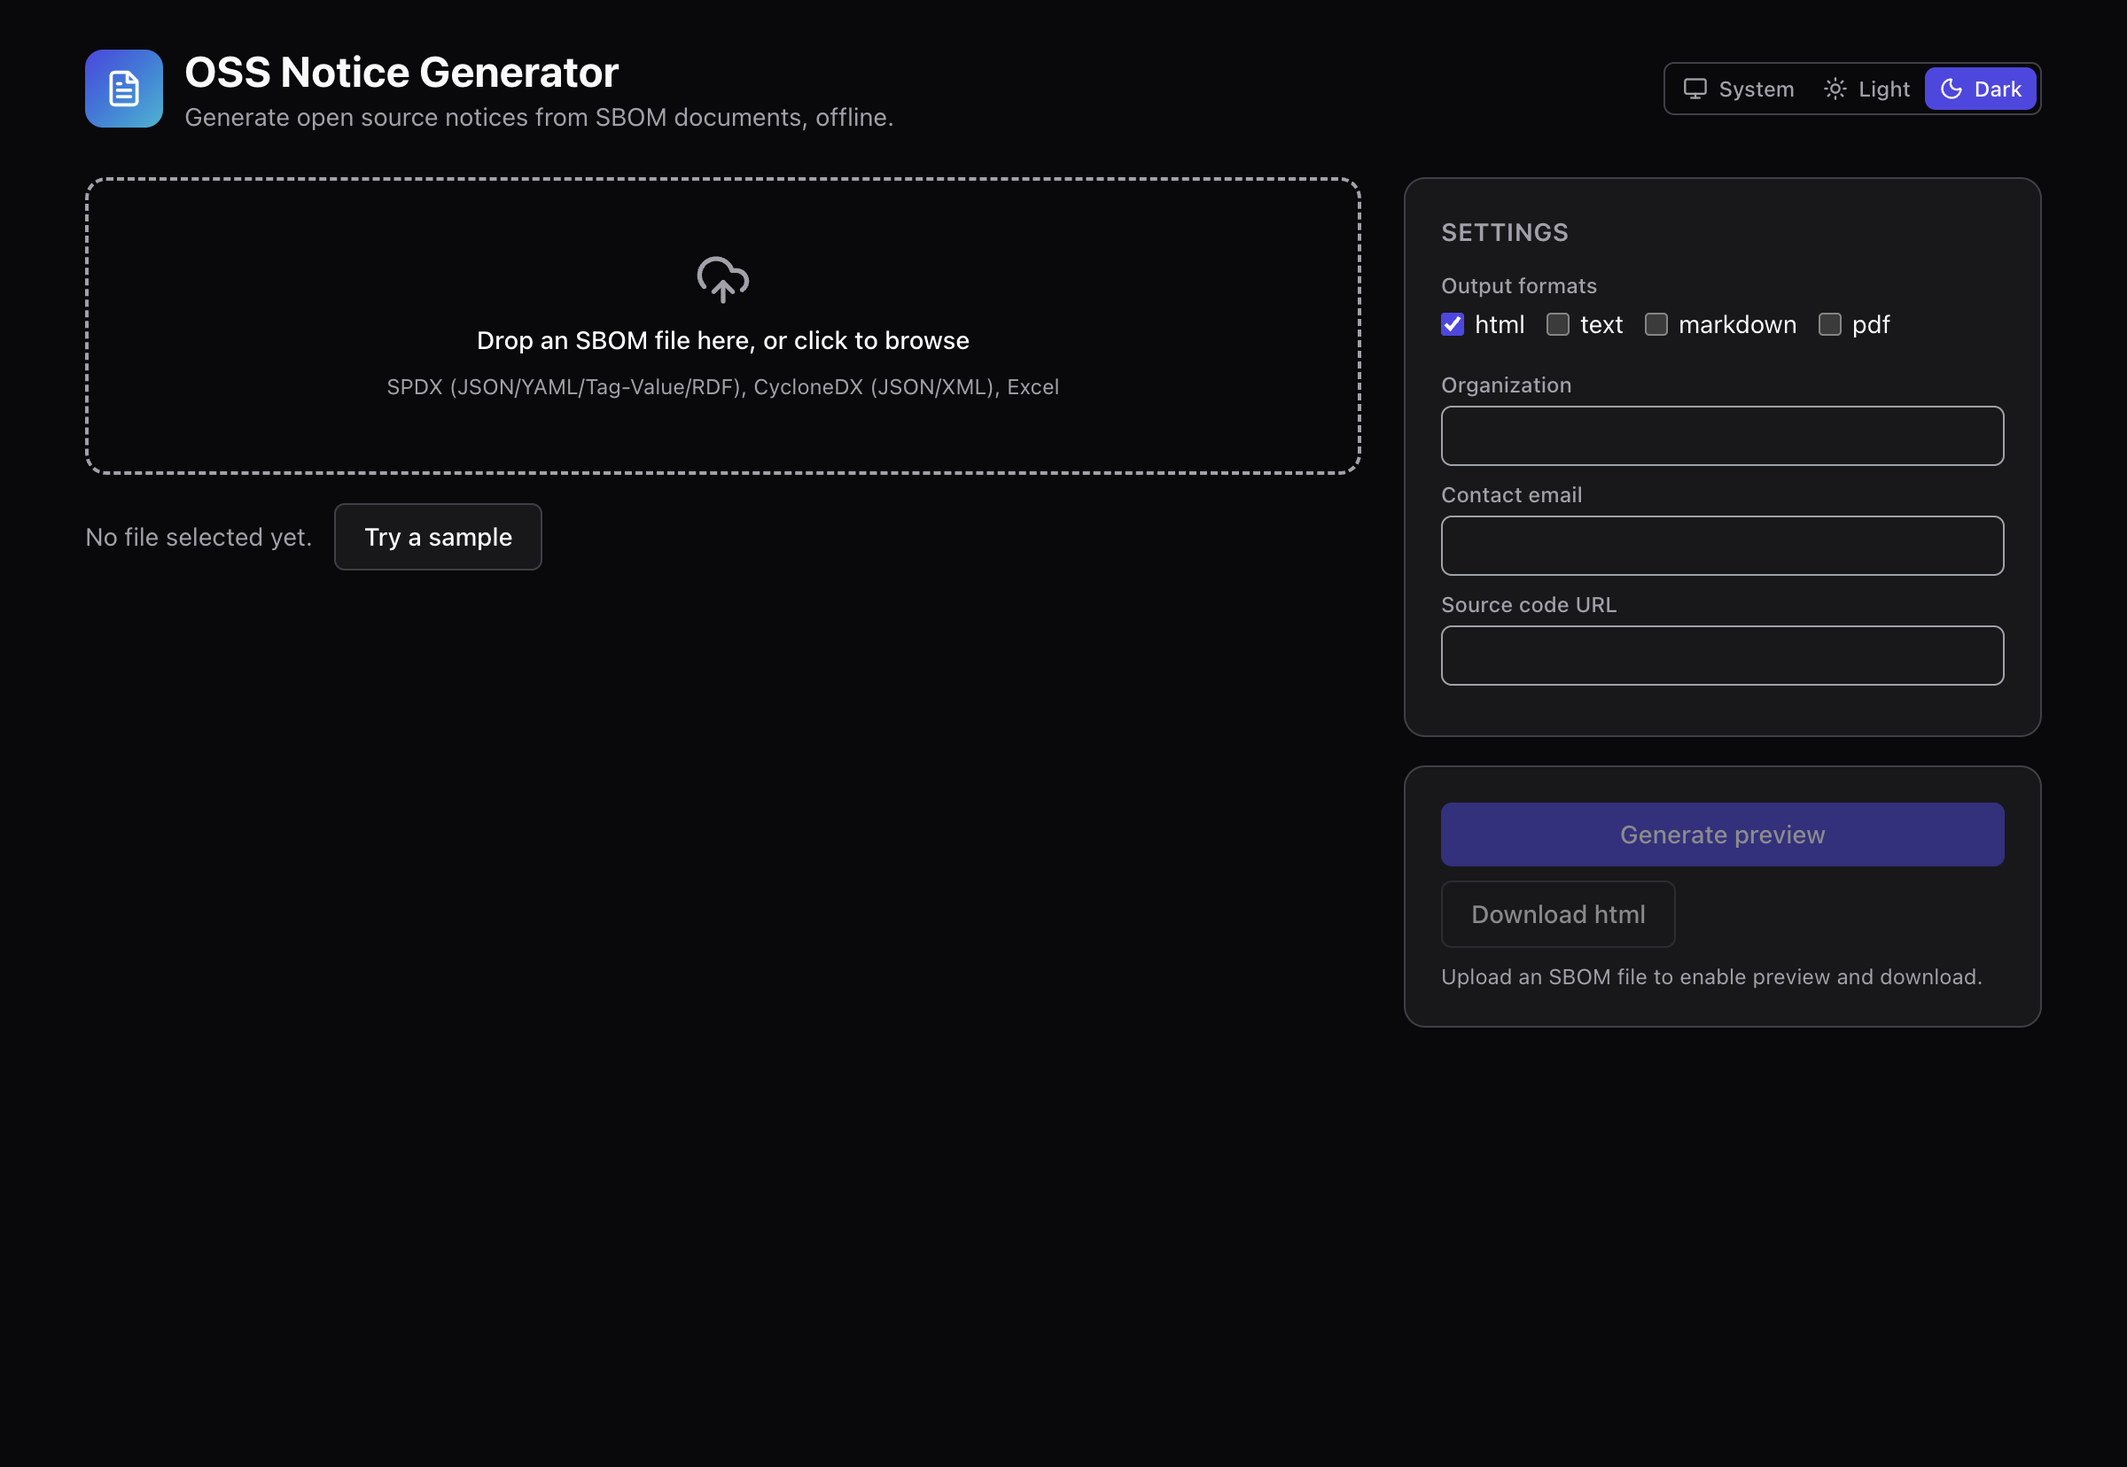
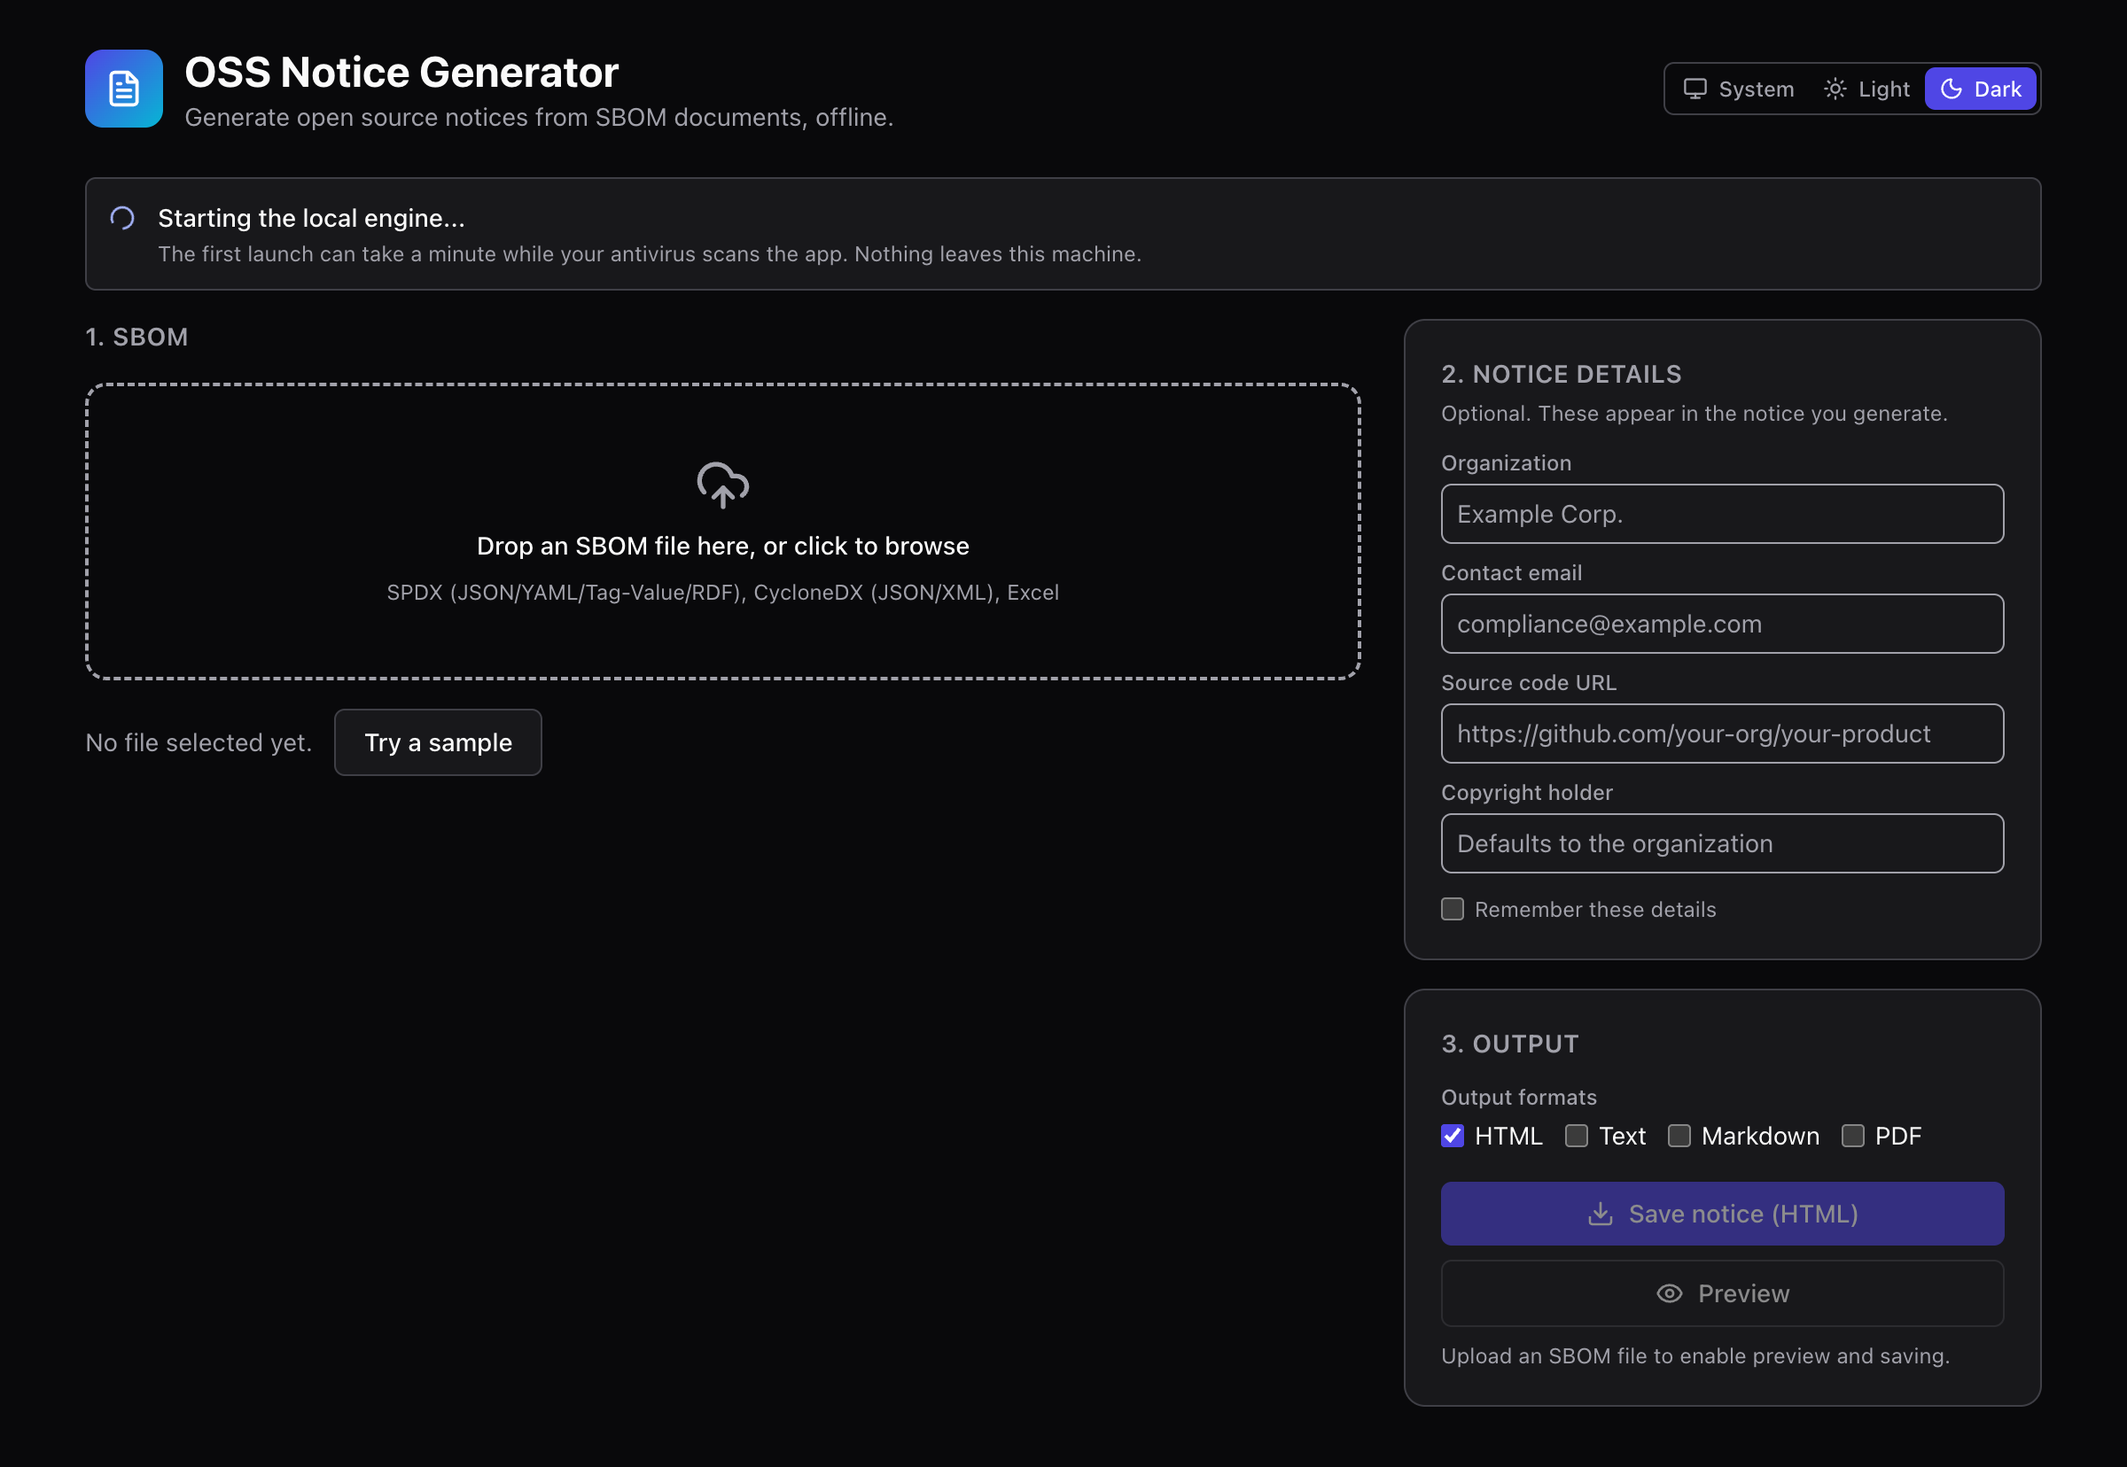
docs: cover macOS in the user guide, and describe the screen as it now works
The guide was titled for Windows and only described Windows, though macOS has been
a published download for some time. It now has an install section per system, and
the walkthrough follows the numbered steps the screen presents, including the
starting state, the theme control, the license breakdown and Show in folder.

The README splits its badge row in two, states which systems are published, and
gains an accessibility section. It claimed nothing about Linux either way; the
build configuration produces an AppImage but no release ships one, so the docs now
say that rather than leaving a reader to guess.

Screenshots are regenerated for the new layout.

diff --git a/docs/USER_GUIDE.md b/docs/USER_GUIDE.md
@@ -1,99 +1,129 @@
-# onot User Guide (Windows)
+# onot User Guide
 
 This guide walks you through everything from downloading onot to saving a notice,
-with screenshots. You don't need to install any developer tools — just one installer.
+with screenshots. You don't need to install any developer tools, just one installer.
 
-Everything runs on your own PC. Your SBOM file is never sent to any server, and the
-app works without an internet connection.
+Everything runs on your own machine. Your SBOM file is never sent to any server, and
+the app works without an internet connection.
 
-## 1. Download the installer
+## 1. Download
 
-Go to the [Releases page](https://github.com/sktelecom/onot/releases). From the
-latest version at the top, download `onot-Setup-x.y.z.exe` (`x.y.z` is the version
-number).
+Go to the [Releases page](https://github.com/sktelecom/onot/releases) and take the
+file for your system from the latest version at the top.
+
+| System | File |
+|--|--|
+| Windows 10 or 11, 64-bit | `onot-Setup-x.y.z.exe` |
+| macOS 12 or later | `onot-x.y.z.dmg` |
+
+Linux is not published as a download. See the README if you want to build an AppImage
+from source.
 
 ## 2. Install
 
-Double-click the downloaded `onot-Setup-x.y.z.exe` to run it.
+The installers are not code-signed, so each system asks you to confirm the first
+launch. This is the only extra step; there is nothing else to set up.
 
-Because the installer is not code-signed, Windows SmartScreen may show a
-"Windows protected your PC" or "unknown publisher" warning on first run. Click
-**More info** in the dialog, then the **Run anyway** button that appears, and the
-installation continues. When it finishes, an onot icon is added to the Start menu
-and desktop.
+### Windows
+
+Double-click `onot-Setup-x.y.z.exe`. SmartScreen may show "Windows protected your PC"
+or an "unknown publisher" warning. Click **More info**, then the **Run anyway** button
+that appears, and the installation continues. When it finishes, an onot icon is added
+to the Start menu and the desktop.
+
+### macOS
+
+Open the `.dmg` and drag onot to Applications. On the first launch, right-click (or
+Control-click) the app and choose **Open**, then confirm in the dialog. Double-clicking
+instead of using **Open** gives a Gatekeeper warning with no way past it. You only need
+to do this once.
 
 ## 3. Launch the app: first screen
 
-When you start onot, the screen below appears. The dashed area on the left is where
-you drop your SBOM file; the right side holds the output settings. The app is in
-English.
+When you start onot, the screen below appears. The screen is laid out in the three
+steps you work through: the SBOM on the left, and the notice details and output
+settings on the right. The app is in English.
 
 ![onot first screen](images/01-home.png)
 
-## 4. Upload an SBOM file
+On the first launch the app may spend up to a minute showing "Starting the local
+engine". That is your antivirus scanning a freshly downloaded application. Later
+launches are immediate.
+
+The control in the top right switches between the light and dark themes. It follows
+your system setting until you choose otherwise.
+
+## 4. Add an SBOM file (step 1)
 
 Drag an SBOM file onto the dashed area, or click the area to pick a file from the
-chooser. SPDX (JSON/YAML/Tag-Value/RDF), CycloneDX (JSON/XML), and Excel formats are
-accepted. The format is detected automatically, so you don't need to select it.
+chooser. You can also use **File > Open SBOM** in the menu. SPDX
+(JSON/YAML/Tag-Value/RDF), CycloneDX (JSON/XML), and Excel formats are accepted. The
+format is detected automatically, so you don't need to select it.
 
-Don't have an SBOM file yet? Click **Try a sample** below the drop area to load a
-small example that ships with the app, so you can see the whole flow right away.
+Don't have an SBOM file yet? Click **Try a sample** below the drop area to load a small
+example that ships with the app, so you can see the whole flow right away.
 
-Once uploaded, the document name and component count are shown. In the screenshot
-below, `example.spdx.json` was uploaded and 2 components of `EXAMPLE-PRODUCT` were
-recognized.
+Once the file is read, onot summarises it: the product name, how many components and
+licenses it found, and how many components fall under each license. If anything needs
+your attention, a warning count appears; open it to see what each warning means for the
+notice you are about to produce.
 
-![After uploading an SBOM file](images/02-uploaded.png)
+![After adding an SBOM file](images/02-uploaded.png)
 
-## 5. Choose output formats and details
+## 5. Fill in the notice details (step 2)
 
-On the right, choose the output formats you want (you can select several of html,
-text, markdown, pdf). Optionally enter your organization name, contact email, and
-source code URL. This information is included in the generated notice.
+These fields are optional, and they appear in the generated notice: your organization,
+a contact address for compliance questions, where the source code can be obtained, and
+the copyright holder if it differs from the organization.
 
-After you pick formats, a download button appears for each one below. In the
-screenshot below, html and markdown were both selected, so two download buttons
-appeared.
+Tick **Remember these details** to keep them for next time. They are stored only on this
+machine, and only when you tick the box.
+
+## 6. Choose formats and save (step 3)
+
+Choose the output formats you want. You can select several of HTML, Text, Markdown and
+PDF.
 
 ![Choosing output formats](images/03-settings.png)
 
-## 6. Preview and download
-
-Click **Generate preview** to view the notice right inside the app. The component
-list, licenses, and copyright information are laid out in a table, and the full
-license texts are included as well.
+**Preview** shows the notice inside the app before you commit to a file. The component
+list, licenses and copyright information are laid out in a table, and the full license
+texts follow. Use **Expand** to give the preview the height of the window.
 
 ![Notice preview](images/04-preview.png)
 
-Once you've reviewed it, click the button for the format you want — such as
-**Download html**, **Download markdown**, or **Download pdf**. For every format a
-"Save as" dialog opens so you can choose where to save the file.
+**Save notice** writes the files. A "Save as" dialog opens for each format, and once a
+file is written the app tells you where it went, with a **Show in folder** button. The
+keyboard shortcut is Ctrl+S, or Cmd+S on macOS.
 
 ## Frequently asked questions
 
-A SmartScreen warning appears during installation.
-: This happens because the installer is not code-signed. Click **More info**, then
-  **Run anyway** to install.
+The installer warns about an unknown publisher, or my antivirus flagged it.
+: The installers are not code-signed, and some antivirus tools flag a freshly built
+  unsigned application by heuristic. On Windows choose **More info** then **Run anyway**;
+  on macOS right-click the app and choose **Open**. If the file was quarantined, restore
+  it from the quarantine (or add an exception) and run it again. The app runs entirely on
+  your machine and makes no outbound network calls.
 
-My antivirus flagged or quarantined the installer.
-: Because the installer is unsigned and freshly built, some antivirus tools may flag it
-  by heuristic. If it is quarantined, restore it from the antivirus quarantine (or add an
-  exception) and run it again. The app runs entirely on your PC and makes no outbound
-  network calls.
+The app takes a while to start.
+: The first launch waits for your antivirus to finish scanning the application, which can
+  take up to a minute on Windows. The window shows "Starting the local engine" while it
+  waits. Later launches are immediate.
 
 What do I need to run it?
-: A 64-bit Windows 10 or 11 PC. Nothing else — no Python, no separate runtime. Everything
-  the app needs is inside the one installer.
+: A 64-bit Windows 10 or 11 PC, or a Mac on macOS 12 or later. Nothing else, no Python and
+  no separate runtime. Everything the app needs is inside the one download.
 
 How do I uninstall it?
-: In Windows Settings, open Apps and then Installed apps, find onot, and choose
-  **Uninstall**. You can also use the onot uninstaller in the Start menu.
+: On Windows, open Settings then Apps then Installed apps, find onot, and choose
+  **Uninstall**; the Start menu also has an onot uninstaller. On macOS, drag the app from
+  Applications to the Trash.
 
 Can I use it in an environment without internet?
 : Yes. The full license texts are bundled with the app, so it works without a network.
 
 Is my SBOM file sent anywhere?
-: No. Parsing and notice generation all happen on your PC.
+: No. Parsing and notice generation all happen on your machine.
 
 Can I use the command line (CLI) or build from source?
 : Yes. See the CLI and developer sections in the [README](../README.md).

diff --git a/README.md b/README.md
@@ -4,17 +4,18 @@
 
 [![CI](https://github.com/sktelecom/onot/actions/workflows/ci.yml/badge.svg)](https://github.com/sktelecom/onot/actions/workflows/ci.yml)
 [![Security](https://github.com/sktelecom/onot/actions/workflows/security.yml/badge.svg)](https://github.com/sktelecom/onot/actions/workflows/security.yml)
-[![License](https://img.shields.io/github/license/sktelecom/onot)](LICENSE)
 [![OpenSSF Scorecard](https://api.scorecard.dev/projects/github.com/sktelecom/onot/badge)](https://scorecard.dev/viewer/?uri=github.com/sktelecom/onot)
-[![PyPI](https://img.shields.io/pypi/v/onot)](https://pypi.org/project/onot/)
+[![License](https://img.shields.io/github/license/sktelecom/onot)](LICENSE)
+
 [![Latest release](https://img.shields.io/github/v/release/sktelecom/onot?sort=semver)](https://github.com/sktelecom/onot/releases/latest)
+[![PyPI](https://img.shields.io/pypi/v/onot)](https://pypi.org/project/onot/)
 [![Download for Windows](https://img.shields.io/badge/Download-Windows%20installer-0078D6?logo=windows&logoColor=white)](https://github.com/sktelecom/onot/releases/latest)
 
 `onot` generates open source software notices (OSS Notice) from SBOM documents.
 It reads [SPDX](https://spdx.dev) 2.x (JSON/YAML/Tag-Value/RDF),
 [CycloneDX](https://cyclonedx.org) (JSON/XML), and Excel, and produces HTML, Text,
 Markdown, and PDF notices. License texts are bundled, so it runs fully offline
-(air-gapped) — your SBOM never leaves the machine. Jointly developed by Kakao and
+(air-gapped), so your SBOM never leaves the machine. Jointly developed by Kakao and
 SK telecom.
 
 ![onot app](docs/images/04-preview.png)
@@ -25,16 +26,32 @@ SK telecom.
 
 No setup required. Grab the latest installer from
 [Releases](https://github.com/sktelecom/onot/releases), open the app, and drop in an
-SBOM file to preview and download a notice — Windows (`onot-Setup-x.y.z.exe`) and
-macOS (`.dmg`).
+SBOM file to preview and save a notice.
 
-The installers are unsigned. On first launch Windows SmartScreen may warn about an
-"unknown publisher" — choose **More info → Run anyway**. On macOS, right-click the app
-and choose **Open** to pass Gatekeeper.
+| System | File |
+|--|--|
+| Windows 10 or 11, 64-bit | `onot-Setup-x.y.z.exe` |
+| macOS 12 or later | `onot-x.y.z.dmg` |
+
+Releases cover Windows and macOS. Linux is not published, but `pnpm -C electron run dist`
+on a Linux machine builds an AppImage from the same configuration.
+
+The installers are unsigned, so each system asks you to confirm the first launch. On
+Windows, SmartScreen may warn about an "unknown publisher": choose **More info** then
+**Run anyway**. On macOS, right-click the app and choose **Open** to pass Gatekeeper.
 
 The desktop app is self-contained: it bundles everything it needs, so you do **not**
 need Python or `pip`. The sections below (CLI, API, source build) are for developers
 and automation only.
+
+### Accessibility
+
+The app is usable from the keyboard throughout, with a visible focus indicator on every
+control. Colours meet the WCAG 2.2 AA contrast bar in both themes, which an axe-core
+check enforces against the running app on every CI run. It ships light and dark themes
+and follows the system setting by default, and it honours `prefers-reduced-motion`.
+Screen reader support rests on the semantics of standard controls; it has not been
+tested with VoiceOver or NVDA, so reports are welcome.
 
 ## CLI
 

diff --git a/CHANGELOG.md b/CHANGELOG.md
@@ -8,6 +8,30 @@ All notable changes to this project are documented here. The format is based on
 
 ### Added
 
+- The window now opens straight away and says the local engine is starting, instead of
+  leaving nothing on screen for up to 40 seconds on macOS and two minutes on Windows
+  while the sidecar came up.
+- An application menu, replacing Electron's default. It carries Open SBOM and Save
+  Notice with their usual shortcuts, About, and links to the user guide, the release
+  notes and the issue tracker. Reload and the developer tools appear only in a
+  development build.
+- The window remembers its size, position and maximised state, has a minimum size, and
+  takes the name of the open file as its title.
+- Saving reports where the file went, with Show in folder.
+- The notice details can be remembered between runs, and the copyright holder, which the
+  API already accepted, is now on screen.
+- The parse summary breaks components down by license, and each warning is shown with a
+  line saying what it means for the notice.
+- The preview can be expanded to the height of the window.
+
+### Changed
+
+- Saving a notice is the primary action. The primary button used to be Generate preview,
+  which is a step on the way rather than the thing anyone came for.
+- Output formats read as HTML, Text, Markdown and PDF rather than as API identifiers.
+- The three parts of the screen are numbered, and Settings is now Notice details.
+- The user guide covers macOS as well as Windows, having been Windows-only.
+
 - The desktop app follows the system theme and offers an explicit Light or Dark
   choice, which it remembers. Light mode was written but unreachable before, because
   the app pinned dark mode on the document element.
@@ -39,6 +63,13 @@ All notable changes to this project are documented here. The format is based on
   3.54:1. The drop zone shows a focus indicator when reached by keyboard, having
   shown none at all. Checkboxes follow the app's theme rather than the system's.
   `prefers-reduced-motion` is honoured.
+- Saved notices carry the product name and a timestamp on every route. The desktop app
+  could not read the filename the API chose, because a cross-origin response hides
+  `Content-Disposition` unless the server exposes it, so every desktop save fell back to
+  a generic name.
+- The desktop PDF matches the one the CLI produces: same page size, margins and numbered
+  footer. It previously ignored the print stylesheet entirely.
+- Quitting while the engine is still starting no longer hangs the app on a retry dialog.
 
 ## [1.1.3]
 
